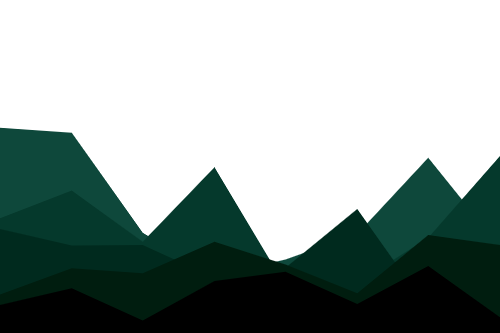
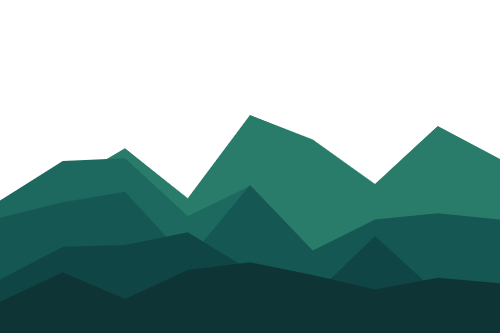
.

diff --git a/frontend/src/Mainpages/HomePageSections/whatodoSection.jsx b/frontend/src/Mainpages/HomePageSections/whatodoSection.jsx
@@ -52,7 +52,7 @@ const whatodoSection = () => {
 
       
       <div className="absolute top-0 left-0 right-0">
-        <svg viewBox="0 0 1440 150" className="w-full h-auto fill-[#1B4D3E] opacity-65 ">
+        <svg viewBox="0 0 1440 150" className="w-full h-auto fill-[#1B4D3E] opacity-60 ">
           <path d="M0,80L80,85.3C160,91,320,101,480,96C640,91,800,69,960,64C1120,59,1280,69,1360,74.7L1440,80L1440,0L1360,0C1280,0,1120,0,960,0C800,0,640,0,480,0C320,0,160,0,80,0L0,0Z" />
         </svg>
         
